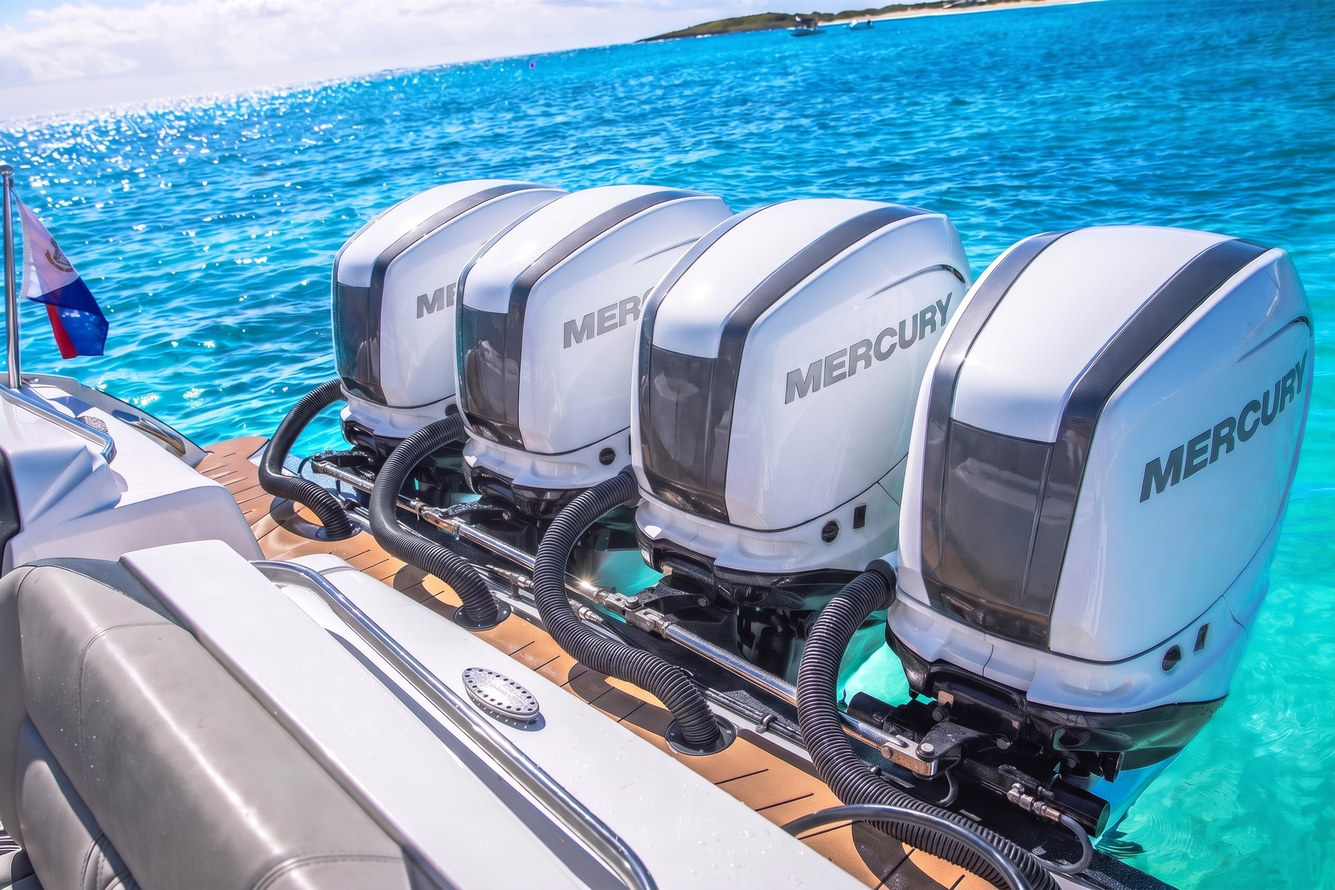
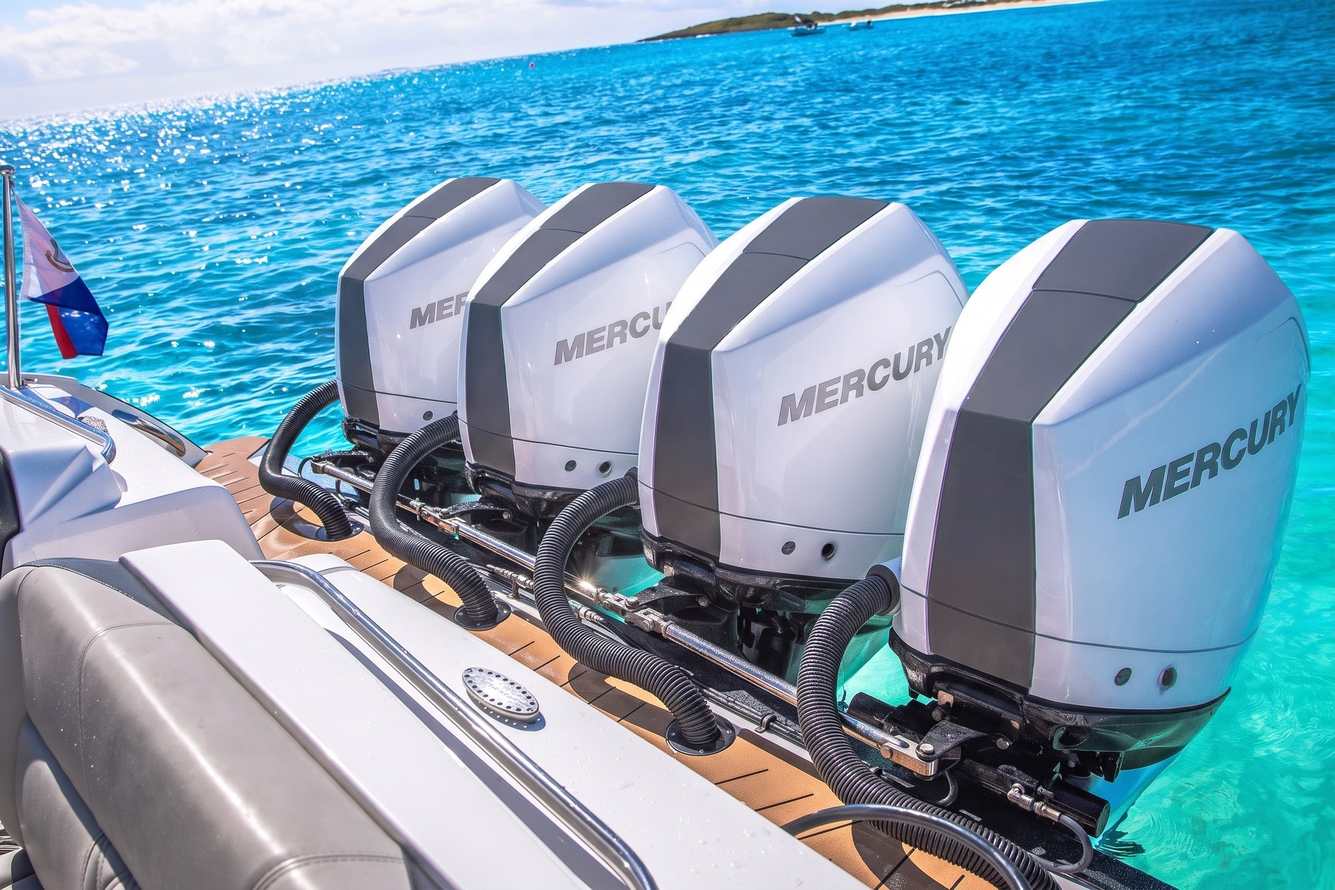
Photos: engines redone from validated V10 references
Claude-Session: https://claude.ai/code/session_01N21G8XvmqeBzuPMLBHiHf8

diff --git a/public/index.html b/public/index.html
@@ -701,7 +701,7 @@ footer .small{grid-column:1/-1;border-top:1px solid var(--hull-line);padding-top
 <!-- HOME -->
 <div class="view" data-view="home">
   <div class="hero">
-    <img src="img/hero-true.jpg?v=1793680026" alt="Nor-Tech 450 Sport SARE" fetchpriority="high">
+    <img src="img/hero-true.jpg?v=1793680478" alt="Nor-Tech 450 Sport SARE" fetchpriority="high">
     <div class="wrap inner">
       <div class="eyebrow hero-eb" data-t="home.eyebrow"></div>
       <h1 class="tag" data-t="home.tagline"></h1>
@@ -717,13 +717,13 @@ footer .small{grid-column:1/-1;border-top:1px solid var(--hull-line);padding-top
   </section>
   <section style="padding-top:0">
     <div class="wrap trio">
-      <a class="tile" href="#charter"><div class="ph"><img src="img/p-bow-view-s.jpg?v=1793680026" alt="" loading="lazy"></div><div class="eyebrow">01</div><h3 data-t="home.s1Title"></h3><p data-t="home.s1Text"></p><span class="more" data-t="common.discover"></span></a>
-      <a class="tile" href="#tender"><div class="ph"><img src="img/p-profile-wide-s.jpg?v=1793680026" alt="" loading="lazy"></div><div class="eyebrow">02</div><h3 data-t="home.s2Title"></h3><p data-t="home.s2Text"></p><span class="more" data-t="common.discover"></span></a>
-      <a class="tile" href="#voyages"><div class="ph"><img src="img/aft-deck-s.jpg?v=1793680026" alt="" loading="lazy"></div><div class="eyebrow">03</div><h3 data-t="home.s3Title"></h3><p data-t="home.s3Text"></p><span class="more" data-t="common.discover"></span></a>
+      <a class="tile" href="#charter"><div class="ph"><img src="img/p-bow-view-s.jpg?v=1793680478" alt="" loading="lazy"></div><div class="eyebrow">01</div><h3 data-t="home.s1Title"></h3><p data-t="home.s1Text"></p><span class="more" data-t="common.discover"></span></a>
+      <a class="tile" href="#tender"><div class="ph"><img src="img/p-profile-wide-s.jpg?v=1793680478" alt="" loading="lazy"></div><div class="eyebrow">02</div><h3 data-t="home.s2Title"></h3><p data-t="home.s2Text"></p><span class="more" data-t="common.discover"></span></a>
+      <a class="tile" href="#voyages"><div class="ph"><img src="img/aft-deck-s.jpg?v=1793680478" alt="" loading="lazy"></div><div class="eyebrow">03</div><h3 data-t="home.s3Title"></h3><p data-t="home.s3Text"></p><span class="more" data-t="common.discover"></span></a>
     </div>
   </section>
   <div class="feature">
-    <div class="ph"><img src="img/p-helm.jpg?v=1793680026" alt="" loading="lazy"></div>
+    <div class="ph"><img src="img/p-helm.jpg?v=1793680478" alt="" loading="lazy"></div>
     <div class="tx"><div class="eyebrow" data-t="nav.crew"></div><h2 data-t="home.crewTitle"></h2><p class="lead" data-t="home.crewText"></p><div><a class="cta line" href="#crew" data-t="home.crewCta"></a></div></div>
   </div>
   <section id="explorer">
@@ -768,7 +768,7 @@ footer .small{grid-column:1/-1;border-top:1px solid var(--hull-line);padding-top
 
 <!-- CHARTER -->
 <div class="view" data-view="charter" hidden>
-  <figure class="page-hero" style="--ar:16/9"><img src="img/p-bow-view.jpg?v=1793680026" alt="" style="object-position:50% 70%"><figcaption class="wrap"><div class="eyebrow" data-t="charter.eyebrow"></div><h1 data-t="charter.title"></h1></figcaption></figure>
+  <figure class="page-hero" style="--ar:16/9"><img src="img/p-bow-view.jpg?v=1793680478" alt="" style="object-position:50% 70%"><figcaption class="wrap"><div class="eyebrow" data-t="charter.eyebrow"></div><h1 data-t="charter.title"></h1></figcaption></figure>
   <nav class="subnav" data-for="charter" aria-label="Sections"></nav>
   <section data-sec="0">
     <div class="wrap">
@@ -803,7 +803,7 @@ footer .small{grid-column:1/-1;border-top:1px solid var(--hull-line);padding-top
 
 <!-- TENDER -->
 <div class="view" data-view="tender" hidden>
-  <figure class="page-hero top" style="--ar:3/2"><img src="img/p-profile-wide.jpg?v=1793680026" alt=""><figcaption class="wrap"><div class="eyebrow" data-t="tender.eyebrow"></div><h1 data-t="tender.title"></h1></figcaption></figure>
+  <figure class="page-hero top" style="--ar:3/2"><img src="img/p-profile-wide.jpg?v=1793680478" alt=""><figcaption class="wrap"><div class="eyebrow" data-t="tender.eyebrow"></div><h1 data-t="tender.title"></h1></figcaption></figure>
   <nav class="subnav" data-for="tender" aria-label="Sections"></nav>
   <div class="hullband">
     <section data-sec="0">
@@ -831,7 +831,7 @@ footer .small{grid-column:1/-1;border-top:1px solid var(--hull-line);padding-top
   </div>
   <div class="feature" data-sec="3" style="background:var(--paper)">
     <div class="tx"><div class="eyebrow" data-t="tender.eyebrow"></div><h2 data-t="tender.whyTitle"></h2><div class="why" id="why" style="grid-template-columns:1fr 1fr"></div></div>
-    <div class="ph"><img src="img/p-aft-from-helm.jpg?v=1793680026" alt="" loading="lazy"></div>
+    <div class="ph"><img src="img/p-aft-from-helm.jpg?v=1793680478" alt="" loading="lazy"></div>
   </div>
   <div class="hullband">
     <section data-sec="4">
@@ -878,7 +878,7 @@ footer .small{grid-column:1/-1;border-top:1px solid var(--hull-line);padding-top
 
 <!-- VOYAGES -->
 <div class="view" data-view="voyages" hidden>
-  <figure class="page-hero" style="--ar:16/9"><img src="img/p-top-down.jpg?v=1793680026" alt=""><figcaption class="wrap"><div class="eyebrow" data-t="voyages.eyebrow"></div><h1 data-t="voyages.title"></h1></figcaption></figure>
+  <figure class="page-hero" style="--ar:16/9"><img src="img/p-top-down.jpg?v=1793680478" alt=""><figcaption class="wrap"><div class="eyebrow" data-t="voyages.eyebrow"></div><h1 data-t="voyages.title"></h1></figcaption></figure>
   <nav class="subnav" data-for="voyages" aria-label="Sections"></nav>
   <section data-sec="0">
     <div class="wrap">
@@ -933,7 +933,7 @@ footer .small{grid-column:1/-1;border-top:1px solid var(--hull-line);padding-top
   <nav class="subnav" data-for="crew" aria-label="Sections"></nav>
   <section data-sec="0" style="padding-top:56px">
     <div class="wrap captain">
-      <div class="ph"><img src="img/p-helm-seats.jpg?v=1793680026" alt="" loading="lazy"></div>
+      <div class="ph"><img src="img/p-helm-seats.jpg?v=1793680478" alt="" loading="lazy"></div>
       <div>
         <p class="statement" style="font-size:clamp(20px,2.13vw,28px)" data-t="crew.intro"></p>
         <h2 style="font-size:clamp(25px,2.79vw,36px);margin-top:48px" data-t="crew.captainTitle"></h2>
@@ -965,7 +965,7 @@ footer .small{grid-column:1/-1;border-top:1px solid var(--hull-line);padding-top
   <div class="page-head wrap"><div class="eyebrow" data-t="faq.eyebrow"></div><h1 data-t="faq.title"></h1></div>
   <section style="padding-top:24px">
     <div class="wrap faq-wrap">
-      <div><figure class="faq-ph"><img src="img/p-bow-lounge-s.jpg?v=1793680026" alt="" loading="lazy"></figure></div>
+      <div><figure class="faq-ph"><img src="img/p-bow-lounge-s.jpg?v=1793680478" alt="" loading="lazy"></figure></div>
       <div class="faq" id="faqAll"></div>
     </div>
     <div class="wrap"><p class="legal" style="margin-top:56px" data-t="clearance.legal"></p></div>
@@ -1147,7 +1147,7 @@ function renderWayfinding(){
   });
   document.querySelectorAll(".nextch").forEach(n=>n.remove());
   ORDER.forEach((v,i)=>{if(v==="home"||v==="book")return;const nx=ORDER[i+1];const host=document.querySelector(`[data-view="${v}"]`);if(!host||!nx)return;
-    host.append(el("a",{class:"nextch",href:"#"+nx},el("div",{class:"ph"},el("img",{src:`img/${NEXT_IMG[nx]}-s.jpg?v=1793680026`,alt:"",loading:"lazy"})),el("div",{class:"tx"},el("div",{class:"eyebrow"},t("ui.next")),el("h2",{},t("ui.chapters."+nx)),el("span",{class:"arrow"},t("common.discover")+" →"))))});
+    host.append(el("a",{class:"nextch",href:"#"+nx},el("div",{class:"ph"},el("img",{src:`img/${NEXT_IMG[nx]}-s.jpg?v=1793680478`,alt:"",loading:"lazy"})),el("div",{class:"tx"},el("div",{class:"eyebrow"},t("ui.next")),el("h2",{},t("ui.chapters."+nx)),el("span",{class:"arrow"},t("common.discover")+" →"))))});
   const mk=(box,items)=>{if(!box)return;box.innerHTML="";items.forEach(([q,a],i)=>box.append(el("details",{open:i===0?true:null},el("summary",{},q),el("p",{},a))))};
   mk($("#faqShort"),t("faq.items").slice(0,4));mk($("#faqAll"),t("faq.items"));
   watchSections();
@@ -1189,7 +1189,7 @@ const AR={"profile-run":2.053,"front-run":1.335,"p-top-down":1.7778,"p-aerial-st
 function renderYacht(){
   const g=$("#gallery");g.innerHTML="";
   const ROWS=[["profile-run","front-run"],["p-profile-wide","p-stern-beach"],["p-anchor-beach","p-stern-portrait","p-portrait-beach"],["p-top-down","p-aerial-stern"],["p-aerial-beach","p-aerial-quarter","p-aerial-bow"],["p-bow-lounge","p-aft-from-helm","p-cockpit"],["bow-lounge","p-helm-from-bow"],["aft-deck","aft-bench"],["p-helm","p-helm-seats"],["p-engines","p-bow-view"]];
-  ROWS.forEach((row,ri)=>{const r=el("div",{class:"grow"});row.forEach(k=>{const i=PHOTOS.indexOf(k);const b=el("button",{"aria-label":t("yacht.captions."+k),onclick:()=>openLB(i)},el("img",{src:`img/${k}${ri<2?"":"-s"}.jpg?v=1793680026`,alt:t("yacht.captions."+k),loading:ri<1?null:"lazy"}));b.style.setProperty("--ar",AR[k]||1.5);r.append(b)});g.append(r)});
+  ROWS.forEach((row,ri)=>{const r=el("div",{class:"grow"});row.forEach(k=>{const i=PHOTOS.indexOf(k);const b=el("button",{"aria-label":t("yacht.captions."+k),onclick:()=>openLB(i)},el("img",{src:`img/${k}${ri<2?"":"-s"}.jpg?v=1793680478`,alt:t("yacht.captions."+k),loading:ri<1?null:"lazy"}));b.style.setProperty("--ar",AR[k]||1.5);r.append(b)});g.append(r)});
   const s=$("#specs");s.innerHTML="";
   t("yacht.specs").forEach(([k,v,u])=>s.append(el("div",{class:"spec"},el("div",{class:"k"},k),el("div",{class:"v"},v),el("div",{class:"u"},u))));
   const p=$("#pillars");p.innerHTML="";t("yacht.pillars").forEach(([h,x])=>p.append(el("div",{},el("h3",{},h),el("p",{},x))));
@@ -1197,7 +1197,7 @@ function renderYacht(){
 }
 let lbi=0;const lb=$("#lightbox");
 function openLB(i){lbi=i;drawLB();lb.hidden=false;document.body.style.overflow="hidden";lb.querySelector(".x").focus()}
-function drawLB(){const k=PHOTOS[lbi];lb.innerHTML="";lb.append(el("img",{src:`img/${k}.jpg?v=1793680026`,alt:t("yacht.captions."+k)}),el("div",{class:"cap"},t("yacht.captions."+k)),
+function drawLB(){const k=PHOTOS[lbi];lb.innerHTML="";lb.append(el("img",{src:`img/${k}.jpg?v=1793680478`,alt:t("yacht.captions."+k)}),el("div",{class:"cap"},t("yacht.captions."+k)),
   el("button",{class:"x",onclick:closeLB},t("nav.close")+" ×"),el("button",{class:"p",onclick:()=>{lbi=(lbi+PHOTOS.length-1)%PHOTOS.length;drawLB()}},"←"),el("button",{class:"n",onclick:()=>{lbi=(lbi+1)%PHOTOS.length;drawLB()}},"→"))}
 function closeLB(){lb.hidden=true;document.body.style.overflow=""}
 document.addEventListener("keydown",e=>{if(lb.hidden)return;if(e.key==="Escape")closeLB();if(e.key==="ArrowRight"){lbi=(lbi+1)%PHOTOS.length;drawLB()}if(e.key==="ArrowLeft"){lbi=(lbi+PHOTOS.length-1)%PHOTOS.length;drawLB()}});
@@ -1401,8 +1401,8 @@ const XGEO=GEO.region;
 const XGROUPS={home:["stmartin","stbarth","anguilla"],leeward:["saba","statia","stkitts","antigua","montserrat","guadeloupe"],windward:["dominica","martinique","stlucia","grenadines","grenada","barbados"],virgin:["bvi","usvi","puertorico"],north:["turks","bahamas"]};
 const XVOY={saba:"north",statia:"north",stkitts:"north",bvi:"virgin",usvi:"virgin",puertorico:"virgin",antigua:"antigua",montserrat:"antigua",guadeloupe:"south",dominica:"south",martinique:"south",stlucia:"south",grenadines:"south",grenada:"south",barbados:"south",bahamas:"bahamas",turks:"bahamas"};
 const XGUIDE={stmartin:"stmartin",stbarth:"stbarth",anguilla:"anguilla"};
-/* Island photos: add "key":"img/file.jpg?v=1793680026" as photos arrive */
-const XPHOTO={anguilla:"img/p-stern-beach-s.jpg?v=1793680026"};
+/* Island photos: add "key":"img/file.jpg?v=1793680478" as photos arrive */
+const XPHOTO={anguilla:"img/p-stern-beach-s.jpg?v=1793680478"};
 const XMINOR=new Set(["stbarth","anguilla","saba","statia","montserrat","usvi","grenada","barbados"]);
 const XLEFT=new Set(["stmartin","stbarth","saba","statia","montserrat","usvi","puertorico"]);
 const XSHORT={bvi:"BVI",usvi:"USVI"};
